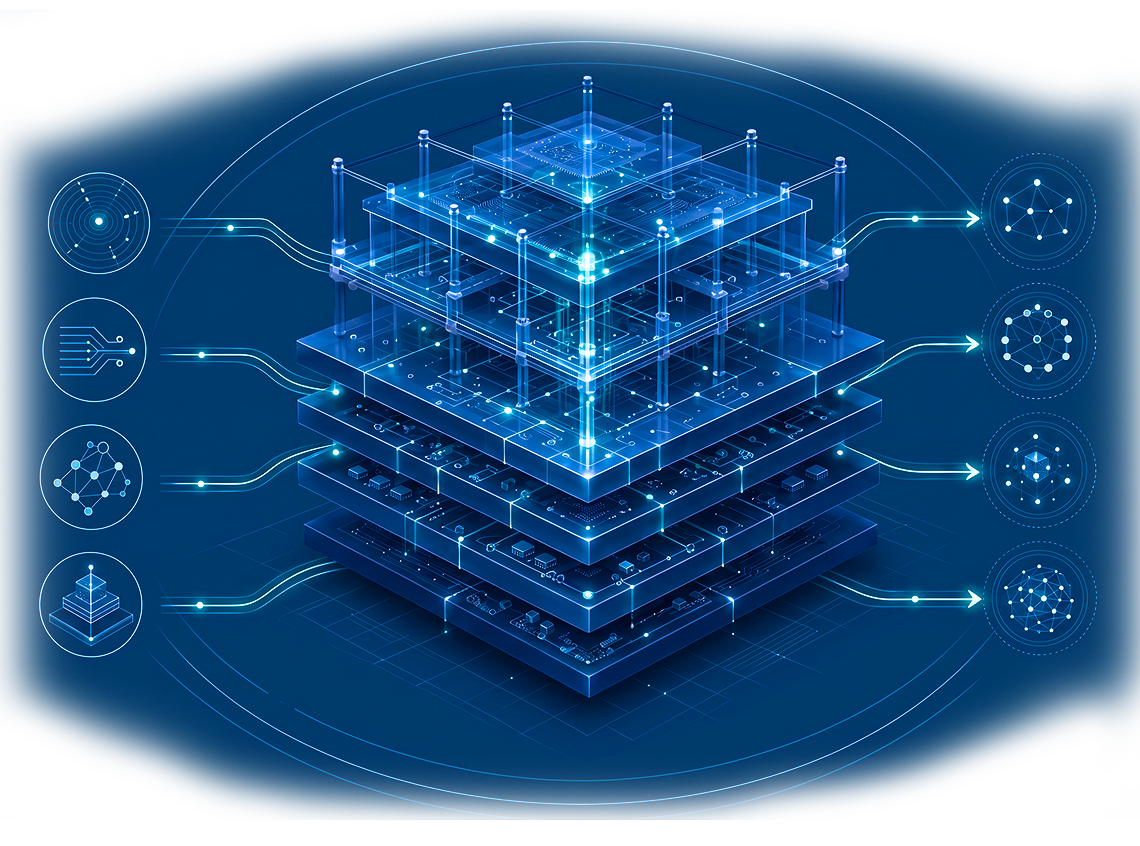
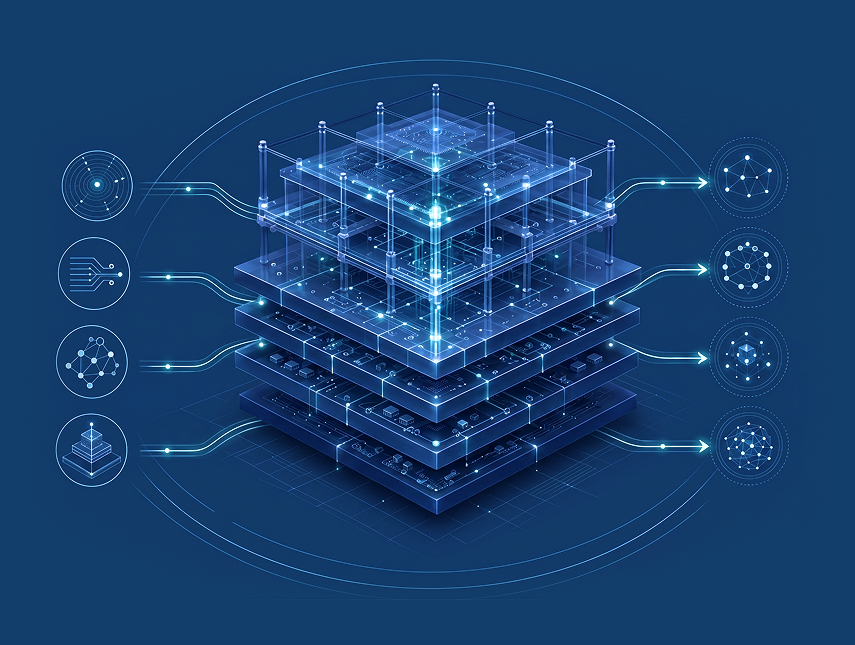
style: refine animations, align colors, and apply Figma pixel-perfect adjustments

diff --git a/css/pages/home/sec-5-8-pillars.css b/css/pages/home/sec-5-8-pillars.css
@@ -81,7 +81,7 @@
   transform-origin: right center;
   z-index: 2;
   pointer-events: none;
-  transition: transform 0.5s ease-out;
+  transition: transform 0.4s ease-out;
 }
 
 .sec-7__h-line {
@@ -95,7 +95,7 @@
   transform-origin: right center; /* Connects at center dot on the right */
   z-index: 2;
   pointer-events: none;
-  transition: transform 0.5s ease-out;
+  transition: transform 0.4s ease-out;
 }
 
 .sec-6__h-line,
@@ -110,7 +110,7 @@
   transform-origin: left center; /* Connects at center dot on the left */
   z-index: 2;
   pointer-events: none;
-  transition: transform 0.5s ease-out;
+  transition: transform 0.4s ease-out;
 }
 
 /* Section 5 Right Image (570px x 529px @ 1440x720 Canvas -> Pure Fluid 39.58vw x 73.47dvh) */
@@ -213,33 +213,33 @@
 
 /* 1 & 3. Draw vertical line top-to-center, pause, then draw to bottom (0s to 1.2s) */
 .sec-5.slide-animated .sec-5__line {
-  animation: sec5VerticalLineDraw 1.2s linear forwards;
+  animation: sec5VerticalLineDraw 0.8s linear forwards;
 }
 
 /* 2. Scale up center dot (0.5s) */
 .sec-5.slide-animated .sec-5__dot {
   opacity: 1;
   transform: translate(-50%, -50%) scale(1);
-  transition-delay: 0.5s;
+  transition-delay: 0.3s;
 }
 
 /* 3. Draw horizontal line leftward (0.7s) */
 .sec-5.slide-animated .sec-5__h-line {
   transform: translateY(-50%) scaleX(1);
-  transition-delay: 0.7s;
+  transition-delay: 0.4s;
 }
 
 @keyframes sec5VerticalLineDraw {
   0% {
     transform: translateX(-50%) scaleY(0);
   }
-  41.67% { /* 0.5s / 1.2s */
+  37.5% { /* 0.3s / 0.8s */
     transform: translateX(-50%) scaleY(0.5);
   }
-  58.33% { /* 0.7s / 1.2s */
+  50% { /* 0.4s / 0.8s */
     transform: translateX(-50%) scaleY(0.5);
   }
-  100% { /* 1.2s / 1.2s */
+  100% { /* 0.8s / 0.8s */
     transform: translateX(-50%) scaleY(1);
   }
 }
@@ -248,17 +248,17 @@
 .sec-5.slide-animated .sec-5__top-block {
   opacity: 1;
   transform: translateX(0);
-  transition-delay: 1.3s;
+  transition-delay: 0.9s;
 }
 .sec-5.slide-animated .sec-5__img-right {
   opacity: 1;
   transform: translateY(-50%) translateX(0);
-  transition-delay: 1.4s;
+  transition-delay: 1.0s;
 }
 .sec-5.slide-animated .sec-5__bottom-block {
   opacity: 1;
   transform: translateX(0);
-  transition-delay: 1.6s;
+  transition-delay: 1.2s;
 }
 
 /* ==========================================================================
@@ -480,107 +480,107 @@
 
 /* --- SECTION 6 ACTIVE TIMELINE SEQUENCE --- */
 .sec-6.slide-animated .sec-6__line {
-  animation: sec6VerticalLineDraw 1.2s linear forwards;
+  animation: sec6VerticalLineDraw 0.8s linear forwards;
 }
 .sec-6.slide-animated .sec-6__dot {
   opacity: 1;
   transform: translate(-50%, -50%) scale(1);
-  transition-delay: 0.5s;
+  transition-delay: 0.3s;
 }
 .sec-6.slide-animated .sec-6__h-line {
   transform: translateY(-50%) scaleX(1);
-  transition-delay: 0.7s;
+  transition-delay: 0.4s;
 }
 .sec-6.slide-animated .sec-6__top-block {
   opacity: 1;
   transform: translateX(0);
-  transition-delay: 1.3s;
+  transition-delay: 0.9s;
 }
 .sec-6.slide-animated .sec-6__img-left {
   opacity: 1;
   transform: translateY(-50%) translateX(0);
-  transition-delay: 1.4s;
+  transition-delay: 1.0s;
 }
 .sec-6.slide-animated .sec-6__bottom-block {
   opacity: 1;
   transform: translateX(0);
-  transition-delay: 1.6s;
+  transition-delay: 1.2s;
 }
 
 /* --- SECTION 7 ACTIVE TIMELINE SEQUENCE --- */
 .sec-7.slide-animated .sec-7__line {
-  animation: sec7VerticalLineDraw 1.2s linear forwards;
+  animation: sec7VerticalLineDraw 0.8s linear forwards;
 }
 .sec-7.slide-animated .sec-7__dot {
   opacity: 1;
   transform: translate(-50%, -50%) scale(1);
-  transition-delay: 0.5s;
+  transition-delay: 0.3s;
 }
 .sec-7.slide-animated .sec-7__h-line {
   transform: translateY(-50%) scaleX(1);
-  transition-delay: 0.7s;
+  transition-delay: 0.4s;
 }
 .sec-7.slide-animated .sec-7__top-block {
   opacity: 1;
   transform: translateX(0);
-  transition-delay: 1.3s;
+  transition-delay: 0.9s;
 }
 .sec-7.slide-animated .sec-7__img-right {
   opacity: 1;
   transform: translateY(-50%) translateX(0);
-  transition-delay: 1.4s;
+  transition-delay: 1.0s;
 }
 .sec-7.slide-animated .sec-7__bottom-block {
   opacity: 1;
   transform: translateX(0);
-  transition-delay: 1.6s;
+  transition-delay: 1.2s;
 }
 
 /* --- SECTION 8 ACTIVE TIMELINE SEQUENCE --- */
 .sec-8.slide-animated .sec-8__line {
-  animation: sec8VerticalLineDraw 1.2s linear forwards;
+  animation: sec8VerticalLineDraw 0.8s linear forwards;
 }
 .sec-8.slide-animated .sec-8__dot {
   opacity: 1;
   transform: translate(-50%, -50%) scale(1);
-  transition-delay: 0.5s;
+  transition-delay: 0.3s;
 }
 .sec-8.slide-animated .sec-8__h-line {
   transform: translateY(-50%) scaleX(1);
-  transition-delay: 0.7s;
+  transition-delay: 0.4s;
 }
 .sec-8.slide-animated .sec-8__top-block {
   opacity: 1;
   transform: translateX(0);
-  transition-delay: 1.3s;
+  transition-delay: 0.9s;
 }
 .sec-8.slide-animated .sec-8__img-left {
   opacity: 1;
   transform: translateY(-50%) translateX(0);
-  transition-delay: 1.4s;
+  transition-delay: 1.0s;
 }
 .sec-8.slide-animated .sec-8__bottom-block {
   opacity: 1;
   transform: translateX(0);
-  transition-delay: 1.6s;
+  transition-delay: 1.2s;
 }
 
 @keyframes sec6VerticalLineDraw {
   0% { transform: translateX(-50%) scaleY(0); }
-  41.67% { transform: translateX(-50%) scaleY(0.5); }
-  58.33% { transform: translateX(-50%) scaleY(0.5); }
+  37.5% { transform: translateX(-50%) scaleY(0.5); }
+  50% { transform: translateX(-50%) scaleY(0.5); }
   100% { transform: translateX(-50%) scaleY(1); }
 }
 @keyframes sec7VerticalLineDraw {
   0% { transform: translateX(-50%) scaleY(0); }
-  41.67% { transform: translateX(-50%) scaleY(0.5); }
-  58.33% { transform: translateX(-50%) scaleY(0.5); }
+  37.5% { transform: translateX(-50%) scaleY(0.5); }
+  50% { transform: translateX(-50%) scaleY(0.5); }
   100% { transform: translateX(-50%) scaleY(1); }
 }
 @keyframes sec8VerticalLineDraw {
   0% { transform: translateX(-50%) scaleY(0); }
-  41.67% { transform: translateX(-50%) scaleY(0.5); }
-  58.33% { transform: translateX(-50%) scaleY(0.5); }
+  37.5% { transform: translateX(-50%) scaleY(0.5); }
+  50% { transform: translateX(-50%) scaleY(0.5); }
   100% { transform: translateX(-50%) scaleY(1); }
 }
 

diff --git a/css/pages/home/sec-4-orbit.css b/css/pages/home/sec-4-orbit.css
@@ -326,74 +326,74 @@
   transition-delay: 0.25s;
 }
 
-/* --- NODE 1 (Start: 1.0s) --- */
+/* --- NODE 1 (Start: 0.5s) --- */
 .sec-continuum.slide-animated .node-top-left .node-circle-btn {
   opacity: 1;
-  transition-delay: 1.0s, 0s, 0s, 0s;
+  transition-delay: 0.5s, 0s, 0s, 0s;
 }
 .sec-continuum.slide-animated .node-top-left .node-circle-btn img {
   opacity: 1;
   transform: translateY(0) scale(1);
-  transition-delay: 1.8s;
+  transition-delay: 1.1s;
 }
 .sec-continuum.slide-animated .node-top-left .node-text {
   opacity: 1;
   transform: translateY(-50%) translateX(0) scale(1);
-  transition-delay: 2.6s;
+  transition-delay: 1.7s;
 }
 
-/* --- NODE 2 (Start: 2.0s) --- */
+/* --- NODE 2 (Start: 1.3s) --- */
 .sec-continuum.slide-animated .node-top-right .node-circle-btn {
   opacity: 1;
-  transition-delay: 2.0s, 0s, 0s, 0s;
+  transition-delay: 1.3s, 0s, 0s, 0s;
 }
 .sec-continuum.slide-animated .node-top-right .node-circle-btn img {
   opacity: 1;
   transform: translateY(0) scale(1);
-  transition-delay: 2.8s;
+  transition-delay: 1.9s;
 }
 .sec-continuum.slide-animated .node-top-right .node-text {
   opacity: 1;
   transform: translateY(-50%) translateX(0) scale(1);
-  transition-delay: 3.6s;
+  transition-delay: 2.5s;
 }
 
-/* --- NODE 3 (Start: 3.0s) --- */
+/* --- NODE 3 (Start: 2.1s) --- */
 .sec-continuum.slide-animated .node-bottom-right .node-circle-btn {
   opacity: 1;
-  transition-delay: 3.0s, 0s, 0s, 0s;
+  transition-delay: 2.1s, 0s, 0s, 0s;
 }
 .sec-continuum.slide-animated .node-bottom-right .node-circle-btn img {
   opacity: 1;
   transform: translateY(0) scale(1);
-  transition-delay: 3.8s;
+  transition-delay: 2.7s;
 }
 .sec-continuum.slide-animated .node-bottom-right .node-text {
   opacity: 1;
   transform: translateY(-50%) translateX(0) scale(1);
-  transition-delay: 4.6s;
+  transition-delay: 3.3s;
 }
 
-/* --- NODE 4 (Start: 4.0s) --- */
+/* --- NODE 4 (Start: 2.9s) --- */
 .sec-continuum.slide-animated .node-bottom-left .node-circle-btn {
   opacity: 1;
-  transition-delay: 4.0s, 0s, 0s, 0s;
+  transition-delay: 2.9s, 0s, 0s, 0s;
 }
 .sec-continuum.slide-animated .node-bottom-left .node-circle-btn img {
   opacity: 1;
   transform: translateY(0) scale(1);
-  transition-delay: 4.8s;
+  transition-delay: 3.5s;
 }
 .sec-continuum.slide-animated .node-bottom-left .node-text {
   opacity: 1;
   transform: translateY(-50%) translateX(0) scale(1);
-  transition-delay: 5.6s;
+  transition-delay: 4.1s;
 }
 
 /* --- CONNECTOR LINE (Triggered before Node 4 finishes) --- */
 .sec-continuum.slide-animated .sec-continuum__connector-line {
   opacity: 1;
-  transition-delay: 5.0s;
+  transition-delay: 3.8s;
 }
 
 /* --- VISITED STATE: Re-animate softly and uniformly --- */

diff --git a/css/components.css b/css/components.css
@@ -107,16 +107,16 @@
 
 /* Light Background Section Navbar Theme Adaptation */
 .navbar-overlay.light-theme .nav-item {
-  color: rgba(18, 62, 107, 0.45);
+  color: rgba(47, 110, 166, 0.45);
 }
 
 .navbar-overlay.light-theme .nav-item:hover,
 .navbar-overlay.light-theme .nav-item.active {
-  color: #123e6b;
+  color: #2f6ea6;
 }
 
 .navbar-overlay.light-theme .nav-item.active::after {
-  background-color: #123e6b;
+  background-color: #2f6ea6;
 }
 
 .navbar-overlay.light-theme .logo-img {
@@ -125,12 +125,12 @@
 }
 
 .navbar-overlay.light-theme .btn-conversation {
-  background-color: #123e6b;
+  background-color: #2f6ea6;
   color: #ffffff;
 }
 
 .navbar-overlay.light-theme .btn-conversation:hover {
-  background-color: #0b2642;
+  background-color: #123e6b; /* Darker hover fallback */
 }
 
 /* --------------------------------------------------------------------------

diff --git a/script.js b/script.js
@@ -24,7 +24,7 @@ document.addEventListener("DOMContentLoaded", () => {
     "#123e6b", // Section 6 (5) - Deep Blue
     "#123e6b", // Section 7 (6) - Deep Blue
     "#123e6b", // Section 8 (7) - Deep Blue
-    "#225a8d", // Section 9 (8) - Architecture Blue
+    "#123e6b", // Section 9 (8) - Architecture Blue (Updated to Deep Blue)
     "#f7f9fc", // Section 10 (9) - Light Gray
   ];
 

diff --git a/css/pages/home/sec-10-contact.css b/css/pages/home/sec-10-contact.css
@@ -74,7 +74,7 @@
   font-size: 18px;
   font-weight: 700;
   padding: 10px 24px;
-  border-radius: 4px;
+  border-radius: 0;
   display: inline-block;
   text-decoration: none;
   transition: background-color 0.3s ease;

diff --git a/css/pages/home/sec-9-arch.css b/css/pages/home/sec-9-arch.css
@@ -55,7 +55,7 @@
 .sec-9__img {
   width: 100%;
   height: auto;
-  aspect-ratio: 570 / 423;
+  aspect-ratio: 570 / 430;
   object-fit: contain;
   display: block;
 }
